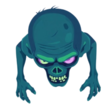
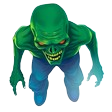
new zombie

diff --git a/game/game_manager.py b/game/game_manager.py
@@ -224,7 +224,7 @@ class gameManager(Map):
                             self.stat_player["dead killed"] += 1
                             self.stat_player["total gold"] += z.gold
                             
-                            self.player.score += 1
+                            self.player.score += 10
                             
                             drop = random.randint(1,100)
                             if 1 <= drop <= 30:
